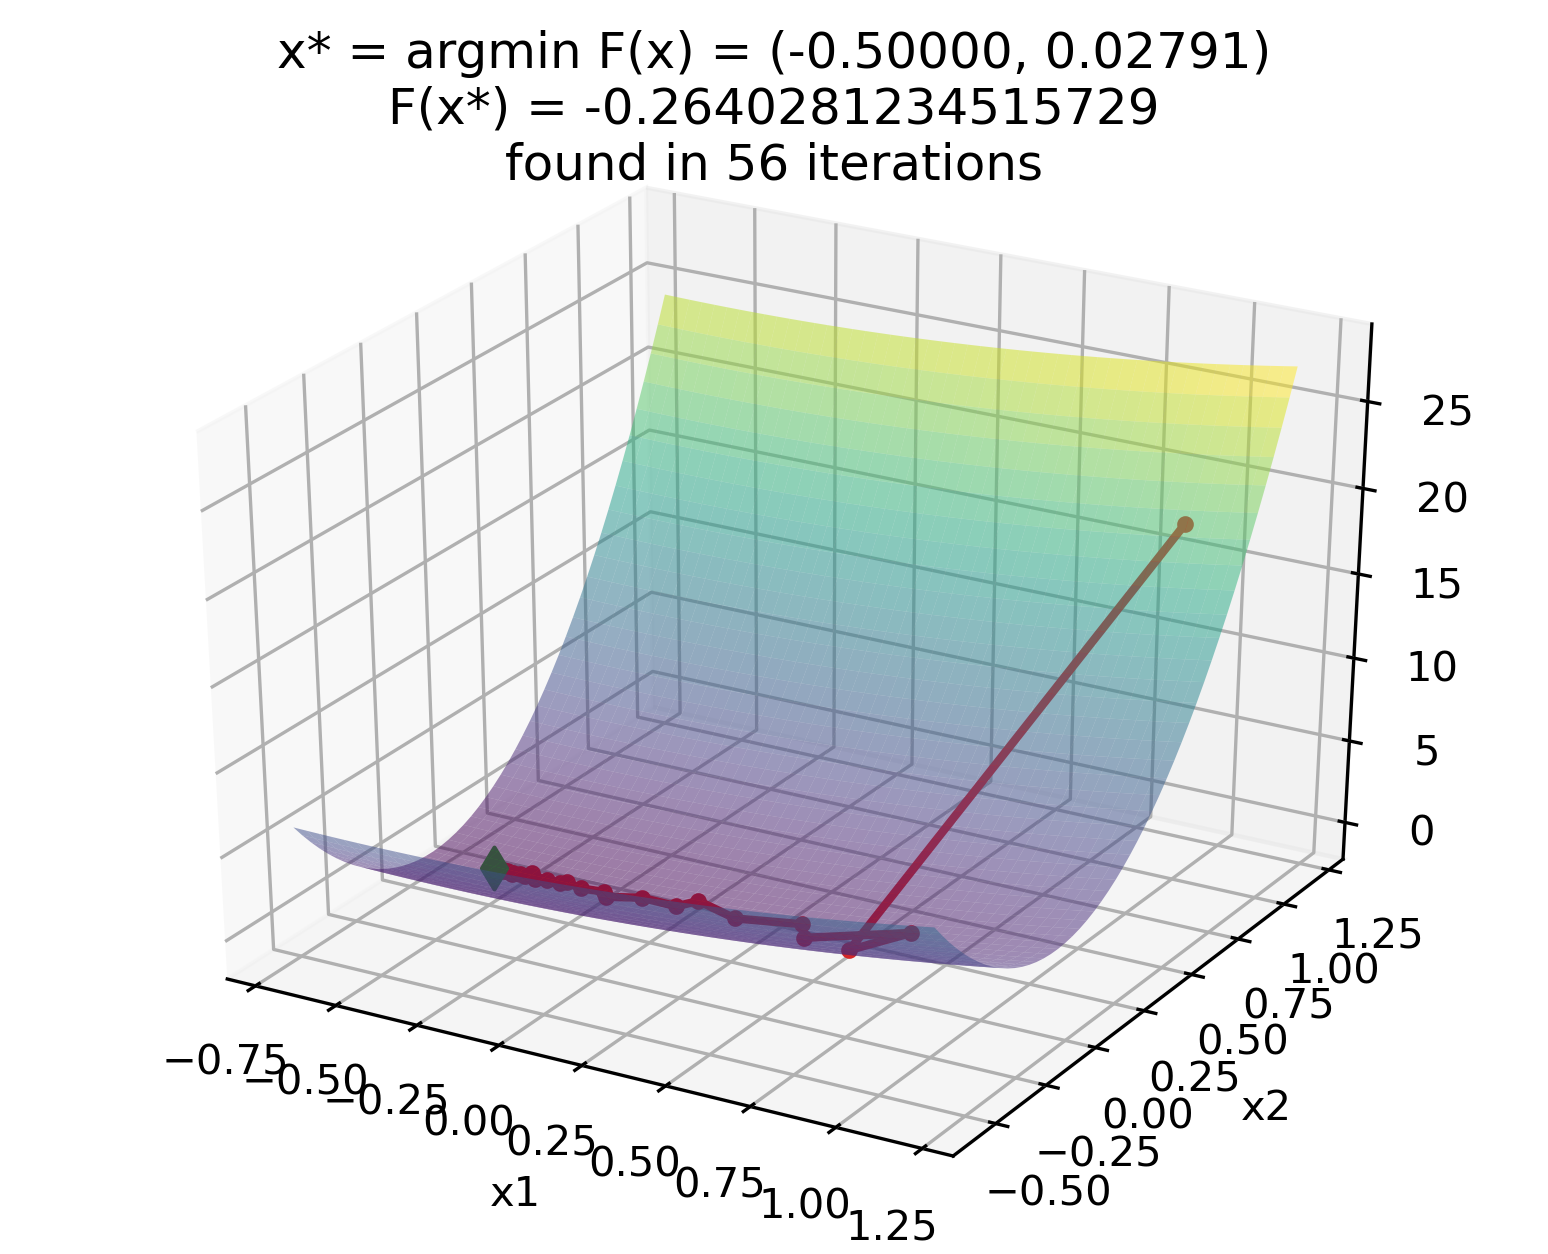
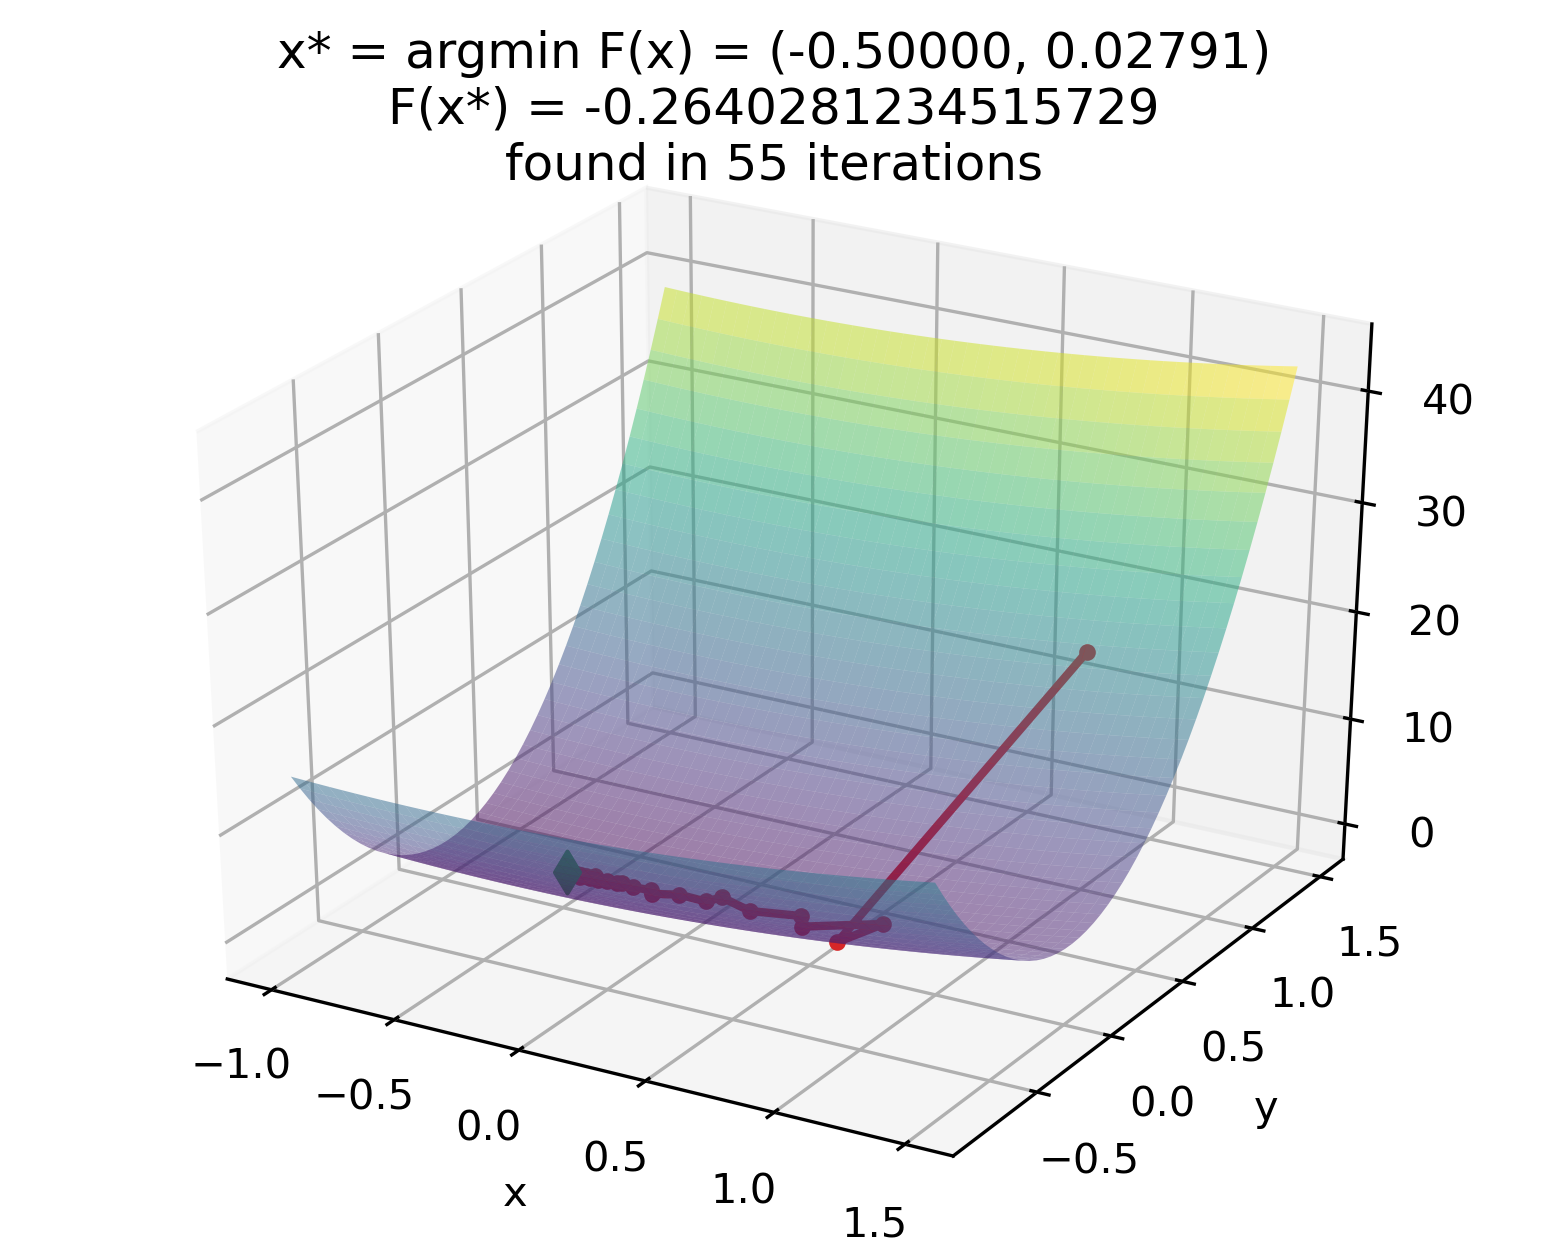
finished lab

diff --git a/lab1/latex/lab1.tex b/lab1/latex/lab1.tex
@@ -93,16 +93,49 @@
 \begin{center}
     \textbf{Варіант 1}
 \end{center}
-\textbf{Завдання}
+\textbf{Завдання.} Скласти програму для мінімізації цільової функції
+одним з градієнтних методів. Конкретний тип градієнтного методу обрати
+самостійно, ураховуючи особливості цільової функції.
+
+\emph{Цільова функція:}
+$f(x,y) = x^2 + 18y^2 + 0.01xy + x - y$
 
 \noindent\textbf{Результати роботи.}
-
-\noindent\emph{Завдання 1.}
+Для визначення ярності цільової функції розглянемо її матрицю Гессе
+$f''(x,y) = \begin{pmatrix}
+    2 & 0.01 \\
+    0.01 & 36
+\end{pmatrix}$. Її власні числа приблизно рівні 2 та 36, тому матриця є погано обумовленою.
+Також це видно з графіку цільової функції та її ліній рівня.
+\begin{center}
+    \begin{tabular}{c c}
+        \includegraphics[scale = 0.6]{surface_init.png} &
+        \includegraphics[scale = 0.5]{contour_init.png}
+    \end{tabular}
+\end{center}
+Отже, функція має <<ярну>> структуру, тому для прискорення
+збіжності необхідно застосувати якусь модифікацію градієнтного методу.
+Для реалізації було обрано метод дроблення кроку, який має допомогти зменшити 
+зигзагоподібний характер шляху до точки мінімуму.
+Обраний критерій зупинки --- $\left| f(x_{k+1}) - f(x_k)\right| < \varepsilon = 10^{-5}$.
+Було отримано збіжність до точки мінімуму за 55 ітерацій.
+\begin{center}
+    \includegraphics[scale = 0.8]{contour_final.png}
+\end{center}
 
 \noindent\textbf{Лістинг.}
+Текст програми було розділено на \texttt{Optimizer.py} з реалізацією
+власне градієнтного методу та \texttt{lab1.py}, де він викликається та зберігаються результати.
 
-%\noindent\texttt{task.py}
-%\lstinputlisting[language = Python, style = python_code]{../task1.py}
+\noindent\texttt{Optimizer.py}
+\lstinputlisting[language = Python, style = python_code]{../code/Optimizer.py}
 
-\noindent\textbf{Висновки.}
+\noindent\texttt{lab1.py}
+\lstinputlisting[language = Python, style = python_code]{../code/lab1.py}
+
+\noindent\textbf{Висновки.} При виконанні даної роботи ми дослідили
+застосування градієнтного методу до мінімізації заданої квадратичної функції, що має
+ярну структуру. Для збільшення швидкості збіжності було реалізовано метод дроблення кроку,
+який на кожній ітерації обирає крок $\alpha_k$ найбільшим серед тих, які забезпечують рух
+у напрямку мінімуму.
 \end{document}

diff --git a/lab1/code/Plotter.py b/lab1/code/Plotter.py
@@ -19,12 +19,12 @@ def make_domains(x_lim, y_lim, target_func):
 def PlotContour(x_lim, y_lim, target_func, points = None, fname = None):
     plt.close()
     domain_x, domain_y, func = make_domains(x_lim, y_lim, target_func)
-    plt.contourf(domain_x, domain_y, func, levels = 10, cmap = 'viridis')
+    plt.contour(domain_x, domain_y, func, levels = 10, cmap = 'viridis')
     if points is not None:
         plt.plot(points[:, 0], points[:, 1], color = 'tab:red', linewidth = 1)
         plt.scatter(points[-1, 0], points[-1, 1], color = 'tab:red', marker = 'x', s = 20)
         plt.scatter(points[0, 0], points[0, 1], color = 'tab:red', marker = 'o', s = 20)
-        plt.title(f'x* = argmin F(x) = ({points[-1, 0]:.5f}, {points[-1, 1]:.5f})\nF(x*) = {points[-1, 2]}\nfound in {points.shape[0]} iterations')
+        plt.title(f'x* = argmin F(x) = ({points[-1, 0]:.5f}, {points[-1, 1]:.5f})\nF(x*) = {points[-1, 2]}\nfound in {points.shape[0]-1} iterations')
     if fname is None:
         plt.show()
     else:
@@ -35,13 +35,13 @@ def PlotSurface(x_lim, y_lim, target_func, points = None, fname = None):
     domain_x, domain_y, func = make_domains(x_lim, y_lim, target_func)
     fig = plt.figure()
     ax = fig.add_subplot(111, projection = '3d')
-    ax.set_xlabel('x1')
-    ax.set_ylabel('x2')
+    ax.set_xlabel('x')
+    ax.set_ylabel('y')
     ax.plot_surface(domain_x, domain_y, func, cmap = 'viridis', alpha = 0.5)
     if points is not None:
         ax.plot(points[:, 0], points[:, 1], points[:, 2], color = 'tab:red', linewidth = 2, marker = 'o', markersize = 3)
         ax.scatter(points[-1, 0], points[-1, 1], points[-1, 2], color = 'tab:green', marker = 'd', s = 50)
-        plt.title(f'x* = argmin F(x) = ({points[-1, 0]:.5f}, {points[-1, 1]:.5f})\nF(x*) = {points[-1, 2]}\nfound in {points.shape[0]} iterations')
+        plt.title(f'x* = argmin F(x) = ({points[-1, 0]:.5f}, {points[-1, 1]:.5f})\nF(x*) = {points[-1, 2]}\nfound in {points.shape[0]-1} iterations')
     if fname is None:
         plt.show()
     else:

diff --git a/lab1/code/lab1.py b/lab1/code/lab1.py
@@ -2,10 +2,12 @@ import numpy as np
 from Optimizer import GDOptimizer
 from Plotter import PlotContour, PlotSurface
 
+# deifine target function
 def f(x_vect):
     x, y = x_vect[0], x_vect[1]
     return x**2 + 18*y**2 + 0.01*x*y + x - y
 
+# set optimizer parameteres and create it
 opt_params = {
     'beta' : 0.1,
     'lmb' : 0.3,
@@ -14,13 +16,14 @@ opt_params = {
 }
 opt = GDOptimizer(**opt_params)
 
+# initial point
 x0 = np.array([1, 1])
 hist = opt.minimize(f, x0)
-x_min, x_max = np.min(hist[:, 0])-0.2, np.max(hist[:, 0])+0.2
-y_min, y_max = np.min(hist[:, 1])-0.2, np.max(hist[:, 1])+0.2
 
+# save results
+x_min, x_max = np.min(hist[:, 0])-0.5, np.max(hist[:, 0])+0.5
+y_min, y_max = np.min(hist[:, 1])-0.5, np.max(hist[:, 1])+0.5
 PlotContour((x_min, x_max), (y_min, y_max), f, fname = '../latex/pics/contour_init.png')
 PlotSurface((x_min, x_max), (y_min, y_max), f, fname = '../latex/pics/surface_init.png')
-
 PlotContour((x_min, x_max), (y_min, y_max), f, hist, fname = '../latex/pics/contour_final.png')
 PlotSurface((x_min, x_max), (y_min, y_max), f, hist, fname = '../latex/pics/surface_final.png')
